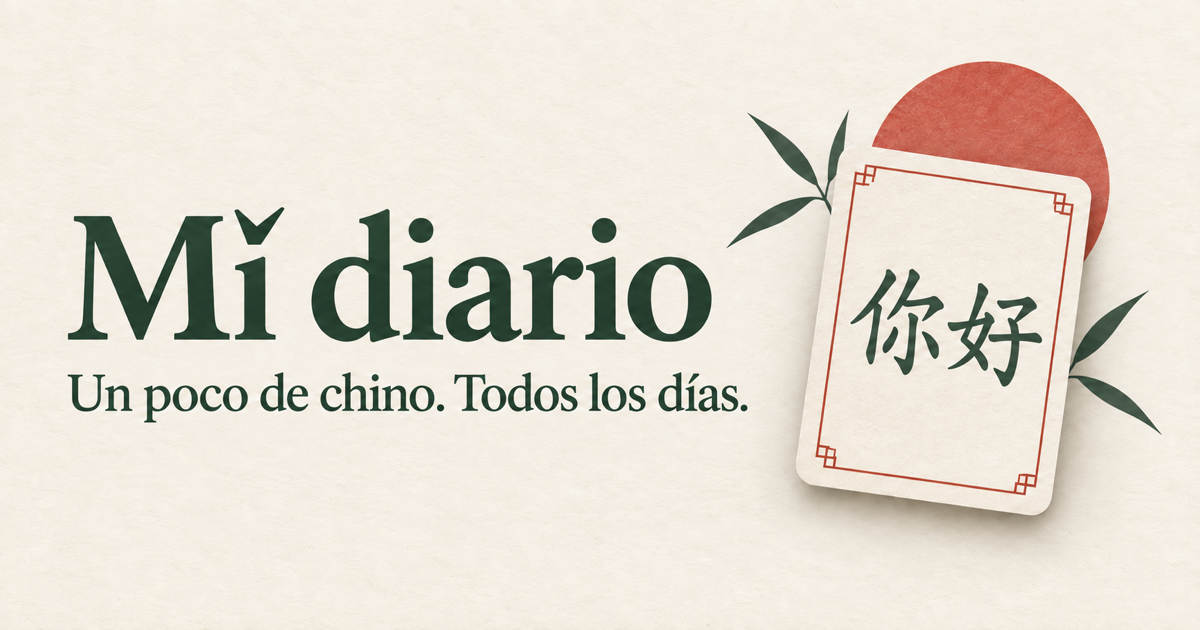
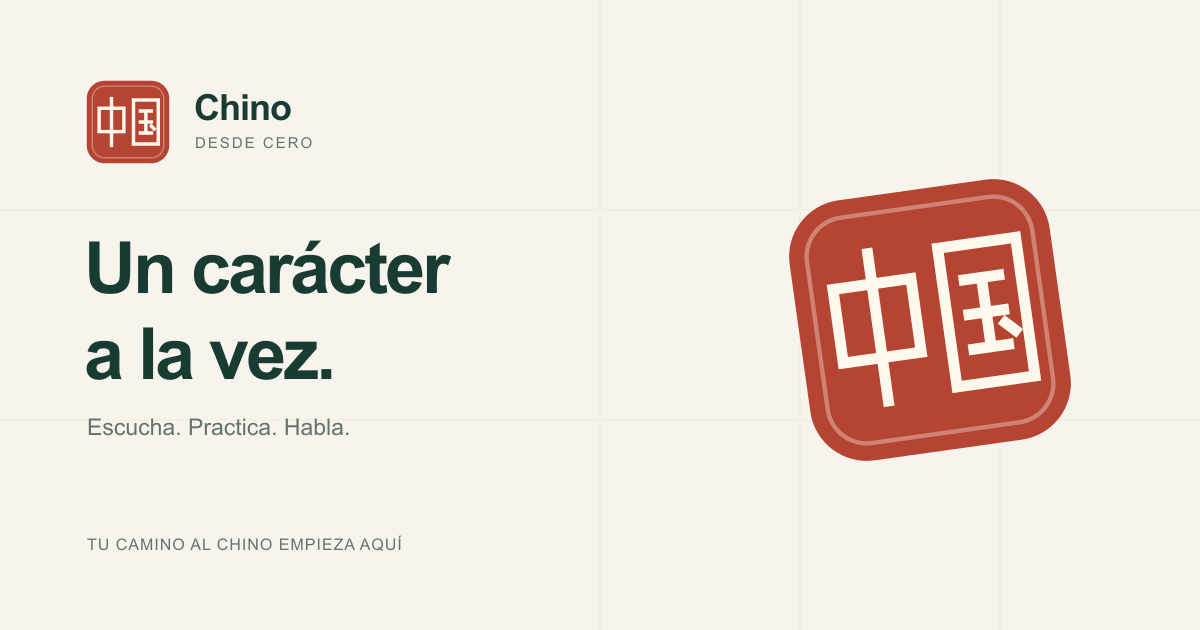
Add brand identity and prepare auth/sync for classroom use
- New brand mark, logo, icons, web manifest, favicon and share card
- Store up to 5000 progress records (library has 653 cards; 500 dropped data)
- Allow 30 sign-ins/sign-ups per minute per IP so classmates on a shared
  Wi-Fi are not rate limited, and show a clear message on 429

diff --git a/app/globals.css b/app/globals.css
@@ -1284,3 +1284,73 @@ html:has(dialog[open]) { overflow:hidden; }
 }
 .shell .library-view { padding-top:0; }
 .shell .library-hero { margin-bottom:0; }
+
+/* Chino identity: a vermilion seal on warm paper, with jade for learning. */
+:root {
+  --ink:#183b32;
+  --muted:#65746b;
+  --paper:#f7f4ee;
+  --card:#fffefa;
+  --jade:#17634d;
+  --jade-soft:#e7eee5;
+  --line:#dedfd5;
+  --red:#b54432;
+}
+html:not([data-theme='bw']) { background:#153c31; }
+html:not([data-theme='bw']) body { background:radial-gradient(ellipse at top,#254d3e,#102e25); }
+html:not([data-theme='bw']) .shell { background:linear-gradient(120deg,#fcfaf5,var(--paper)); border-color:var(--line); }
+.brand .brand-mark, .auth-mark {
+  display:block;
+  flex-shrink:0;
+  padding:0;
+  border-radius:0;
+  background:transparent;
+  box-shadow:none;
+}
+.brand-seal { color:#fff9ed; }
+.brand-seal-field { fill:var(--red); }
+.brand-wordmark { font-size:23px; font-weight:750; letter-spacing:-.06em; line-height:1.1; }
+.brand .brand-caption { margin-top:5px; font-size:10px; font-weight:500; letter-spacing:.12em; }
+.brand-button:focus-visible { outline:2px solid var(--jade); outline-offset:6px; border-radius:4px; }
+html:not([data-theme='bw']) .practice-primary,
+html:not([data-theme='bw']) .picker .origin-options button.active { background:var(--jade); }
+html:not([data-theme='bw']) .home-route,
+html:not([data-theme='bw']) .home-tools { background:var(--jade-soft); }
+html[data-theme='bw'] .brand-seal-field { fill:#000; }
+html[data-theme='bw'] .brand .brand-mark, html[data-theme='bw'] .auth-mark { background:transparent; }
+@media(max-width:760px) {
+  .brand-wordmark { font-size:21px; }
+  .brand .brand-mark { width:38px; height:38px; }
+  .brand .brand-caption { font-size:9px; letter-spacing:.06em; }
+}
+@media(max-width:380px) {
+  .brand-wordmark { font-size:18px; }
+  .brand .brand-mark { width:34px; height:34px; }
+}
+
+/* Responsive navigation branding. */
+.shell .brand-button { min-height:44px; gap:9px; }
+.shell .brand-wordmark { min-width:0; }
+.shell .header-actions { flex-wrap:wrap; }
+@media (min-width:761px) and (max-width:1000px) {
+  .shell .main-nav { grid-template-columns:repeat(4,minmax(0,1fr)); }
+  .shell .home-section-grid { grid-template-columns:repeat(2,minmax(0,1fr)); }
+}
+@media(max-width:760px) {
+  .shell .topbar { height:auto; min-height:72px; gap:8px; }
+  .shell .header-actions { flex-wrap:nowrap; gap:6px; }
+  .shell .brand .brand-caption { display:block; font-size:9px; letter-spacing:.04em; }
+  .shell .brand-wordmark { font-size:20px; }
+  .shell .home-section-grid { grid-template-columns:repeat(2,minmax(0,1fr)); }
+  .shell .home-section-card { min-width:0; }
+  .shell .home-card-heading { flex-wrap:wrap; }
+  .shell .home-section-card h3 { overflow-wrap:anywhere; }
+}
+@media(max-width:420px) {
+  .shell .home-guide { padding-inline:0; }
+  .shell .home-section-grid { grid-template-columns:minmax(0,1fr); }
+  .shell .home-card-heading { flex-wrap:nowrap; }
+  .shell .brand .brand-mark { width:34px; height:34px; }
+  .shell .brand-wordmark { font-size:18px; }
+  .shell .header-actions { gap:4px; }
+}

diff --git a/app/page.tsx b/app/page.tsx
@@ -6,6 +6,7 @@ import { useCallback, useEffect, useMemo, useRef, useState } from 'react';
 import { commonPhrases, commonWords, library } from './content';
 import { LibraryView, stopClip, type PracticeFilter } from '@/components/library-view';
 import { ThemeToggle } from '@/components/theme-toggle';
+import { BrandMark } from '@/components/brand-mark';
 import { AccountMenu } from '@/components/account-menu';
 import { StudySession } from '@/components/study-session';
 import { scheduleReview } from '@/lib/learning';
@@ -340,7 +341,7 @@ export default function Home() {
   return (
     <main className="shell">
       <header className="topbar">
-        <button className="brand brand-button" onClick={() => setScreen('learn')} aria-label={t("Chino, inicio")}><span className="brand-mark">{"字"}</span><span>{t("Chino")}<span className="brand-caption">{t("desde cero")}</span></span></button>
+        <button className="brand brand-button" onClick={() => setScreen('learn')} aria-label={t("Chino, inicio")}><BrandMark className="brand-mark" /><span className="brand-wordmark">Chino<span className="brand-caption">{t("desde cero")}</span></span></button>
         <nav className="main-nav" aria-label={t("Navegación principal")} data-screen={screen}><i className="nav-indicator" aria-hidden="true" />
           {([['learn','Home'],['cards','Flashcards'],['words','Palabras'],['book','Libro'],['listen','Listening'],['speak','Speaking'],['write','Writing'],['progress','Progreso']] as const).map(([value, label]) =>
             <button key={value} aria-current={screen === value ? 'page' : undefined} className={screen === value ? 'selected' : ''} onClick={() => { haptic(8); setScreen(value); }}><NavIcon name={value} /><span>{t(label)}</span></button>)}

diff --git a/app/layout.tsx b/app/layout.tsx
@@ -15,18 +15,21 @@ const geistMono = Geist_Mono({
 
 export const metadata: Metadata = {
   metadataBase: new URL('https://chino-xi.vercel.app'),
-  title: 'Chino desde cero',
+  title: 'Chino · Desde cero',
+  applicationName: 'Chino',
+  manifest: '/manifest.webmanifest',
+  icons: { icon: '/favicon.svg', apple: '/brand/apple-touch-icon.png' },
   description: 'Aprende chino simplificado con caracteres, pinyin, español, audio y repaso inteligente.',
   openGraph: {
-    title: 'Chino desde cero',
+    title: 'Chino · Desde cero',
     description: 'Caracteres, pinyin, español y audio para aprender chino simplificado.',
-    images: ['/og.png'],
+    images: [{ url: '/og.png', width: 1200, height: 630, alt: 'Chino · Desde cero. Un carácter a la vez.' }],
   },
   twitter: {
     card: 'summary_large_image',
-    title: 'Chino desde cero',
+    title: 'Chino · Desde cero',
     description: 'Caracteres, pinyin, español y audio para aprender chino simplificado.',
-    images: ['/og.png'],
+    images: [{ url: '/og.png', width: 1200, height: 630, alt: 'Chino · Desde cero. Un carácter a la vez.' }],
   },
 };
 
@@ -34,7 +37,7 @@ export const viewport: Viewport = {
   width: 'device-width',
   initialScale: 1,
   viewportFit: 'cover',
-  themeColor: '#f3f6f4',
+  themeColor: '#f7f4ee',
   interactiveWidget: 'resizes-content',
 };
 

diff --git a/components/account-menu.tsx b/components/account-menu.tsx
@@ -50,7 +50,9 @@ export function AccountMenu({ syncState, onSignedOut, fallbackUser }: Props) {
 
     setSubmitting(false);
     if (result.error) {
-      setError(mode === 'register'
+      setError(result.error.status === 429
+        ? 'Demasiados intentos. Espera un minuto y vuelve a intentarlo.'
+        : mode === 'register'
         ? 'No se pudo crear la cuenta. Revisa el correo y usa al menos 8 caracteres.'
         : 'Correo o contraseña incorrectos.');
       return;
@@ -78,7 +80,6 @@ export function AccountMenu({ syncState, onSignedOut, fallbackUser }: Props) {
 
     <dialog ref={dialogRef} className="auth-dialog" onClose={close} onCancel={close}>
       <button className="dialog-close" onClick={close} aria-label={t("Cerrar")}>{"×"}</button>
-      <div className="auth-mark">{"字"}</div>
       <p className="eyebrow">{t("TU PROGRESO EN CUALQUIER DISPOSITIVO")}</p>
       <h2>{mode === 'register' ? t('Crea tu cuenta.') : t('Bienvenido de vuelta.')}</h2>
       <p className="auth-intro">{mode === 'register' ? t('Tu avance se guardará de forma privada y podrás continuarlo desde tu celular o computadora.') : t('Continúa exactamente donde te quedaste.')}</p>

diff --git a/components/brand-mark.tsx b/components/brand-mark.tsx
@@ -1,0 +1,8 @@
+/** Geometric 中国 seal, drawn as paths so it never depends on a CJK font. */
+export function BrandMark({ className = '' }: { className?: string }) {
+  return <svg className={`brand-seal ${className}`} viewBox="0 0 64 64" fill="none" aria-hidden="true" focusable="false">
+    <rect className="brand-seal-field" x="2" y="2" width="60" height="60" rx="13" />
+    <rect x="6" y="6" width="52" height="52" rx="9" stroke="currentColor" strokeOpacity=".35" />
+    <path d="M11 22h18v17H11zM20 15v34M36 16h18v32H36zM41 24h8M41 32h8M41 40h8M45 24v16M49 35l2 2" stroke="currentColor" strokeWidth="2.5" strokeLinecap="square" strokeLinejoin="miter" />
+  </svg>;
+}

diff --git a/components/theme-toggle.tsx b/components/theme-toggle.tsx
@@ -8,7 +8,7 @@ export const THEME_KEY = 'chino-theme';
 
 function applyTheme(bw: boolean) {
   document.documentElement.dataset.theme = bw ? 'bw' : 'color';
-  document.querySelector('meta[name="theme-color"]')?.setAttribute('content', bw ? '#ffffff' : '#f3f6f4');
+  document.querySelector('meta[name="theme-color"]')?.setAttribute('content', bw ? '#ffffff' : '#f7f4ee');
 }
 
 /** Alterna entre la versión a color y la versión blanco y negro. */

diff --git a/lib/auth.ts b/lib/auth.ts
@@ -22,6 +22,12 @@ export const auth = betterAuth({
     storage: 'database',
     window: 60,
     max: 20,
+    // Classmates often sign up together from one school Wi-Fi IP; the default
+    // allows only 3 sign-ins per 10 s per IP.
+    customRules: {
+      '/sign-in/*': { window: 60, max: 30 },
+      '/sign-up/*': { window: 60, max: 30 },
+    },
   },
   plugins: [nextCookies()],
 });

diff --git a/app/api/progress/route.ts b/app/api/progress/route.ts
@@ -22,7 +22,7 @@ function sanitizeRecords(input: unknown) {
 
   return Object.fromEntries(
     Object.entries(input)
-      .slice(0, 500)
+      .slice(0, 5000)
       .filter(([id, value]) => {
         if (!id || id.length > 100 || !value || typeof value !== 'object' || Array.isArray(value)) return false;
         const review = value as Partial<Review>;

diff --git a/docs/branding.md b/docs/branding.md
@@ -1,0 +1,34 @@
+# Chino · Desde cero
+
+Una identidad tranquila para aprender un carácter a la vez.
+
+## Logo
+
+En la interfaz, el sello aparece únicamente en la barra de navegación. También se usa en el favicon y los iconos de la PWA; no se repite en el inicio, pie o acceso a cuenta.
+
+El sello geométrico 中国 es el símbolo principal. Sus trazos son vectores y no dependen de fuentes instaladas. El nombre de la app es **Chino**; «desde cero» acompaña al nombre como descriptor. 中国 significa China y funciona como emblema, no como traducción del idioma.
+
+- Logo vectorial: `public/brand/logo.svg`.
+- Componente de interfaz: `components/brand-mark.tsx`.
+- Manifest de la PWA: `public/manifest.webmanifest`, con iconos PNG de 192 y 512 px y variante maskable.
+- Icono para pantalla de inicio: `public/brand/apple-touch-icon.png`.
+- Imagen para compartir: `public/og.png`; original editable: `public/brand/share-card.svg`.
+
+Dejar al menos un cuarto del ancho del sello como espacio libre. Usarlo desde 32 px en la interfaz. El favicon es la excepción. Mantener la proporción cuadrada y los trazos originales.
+
+## Paleta
+
+| Uso | Color |
+| --- | --- |
+| Jade · acciones y progreso | `#17634D` |
+| Bermellón · sello y acentos | `#B54432` |
+| Papel · fondo | `#F7F4EE` |
+| Marfil · tarjetas | `#FFFEFA` |
+| Tinta · texto | `#183B32` |
+| Salvia · superficies secundarias | `#E7EEE5` |
+
+Geist para interfaz y nombre; mantener las fuentes chinas de los ejercicios para facilitar la lectura. El modo B/N usa el mismo sello en negro.
+
+## Voz
+
+Clara, cercana y paciente. Instrucciones cortas, acciones concretas y progreso sin presión. Frase de marca: **Un carácter a la vez.**
